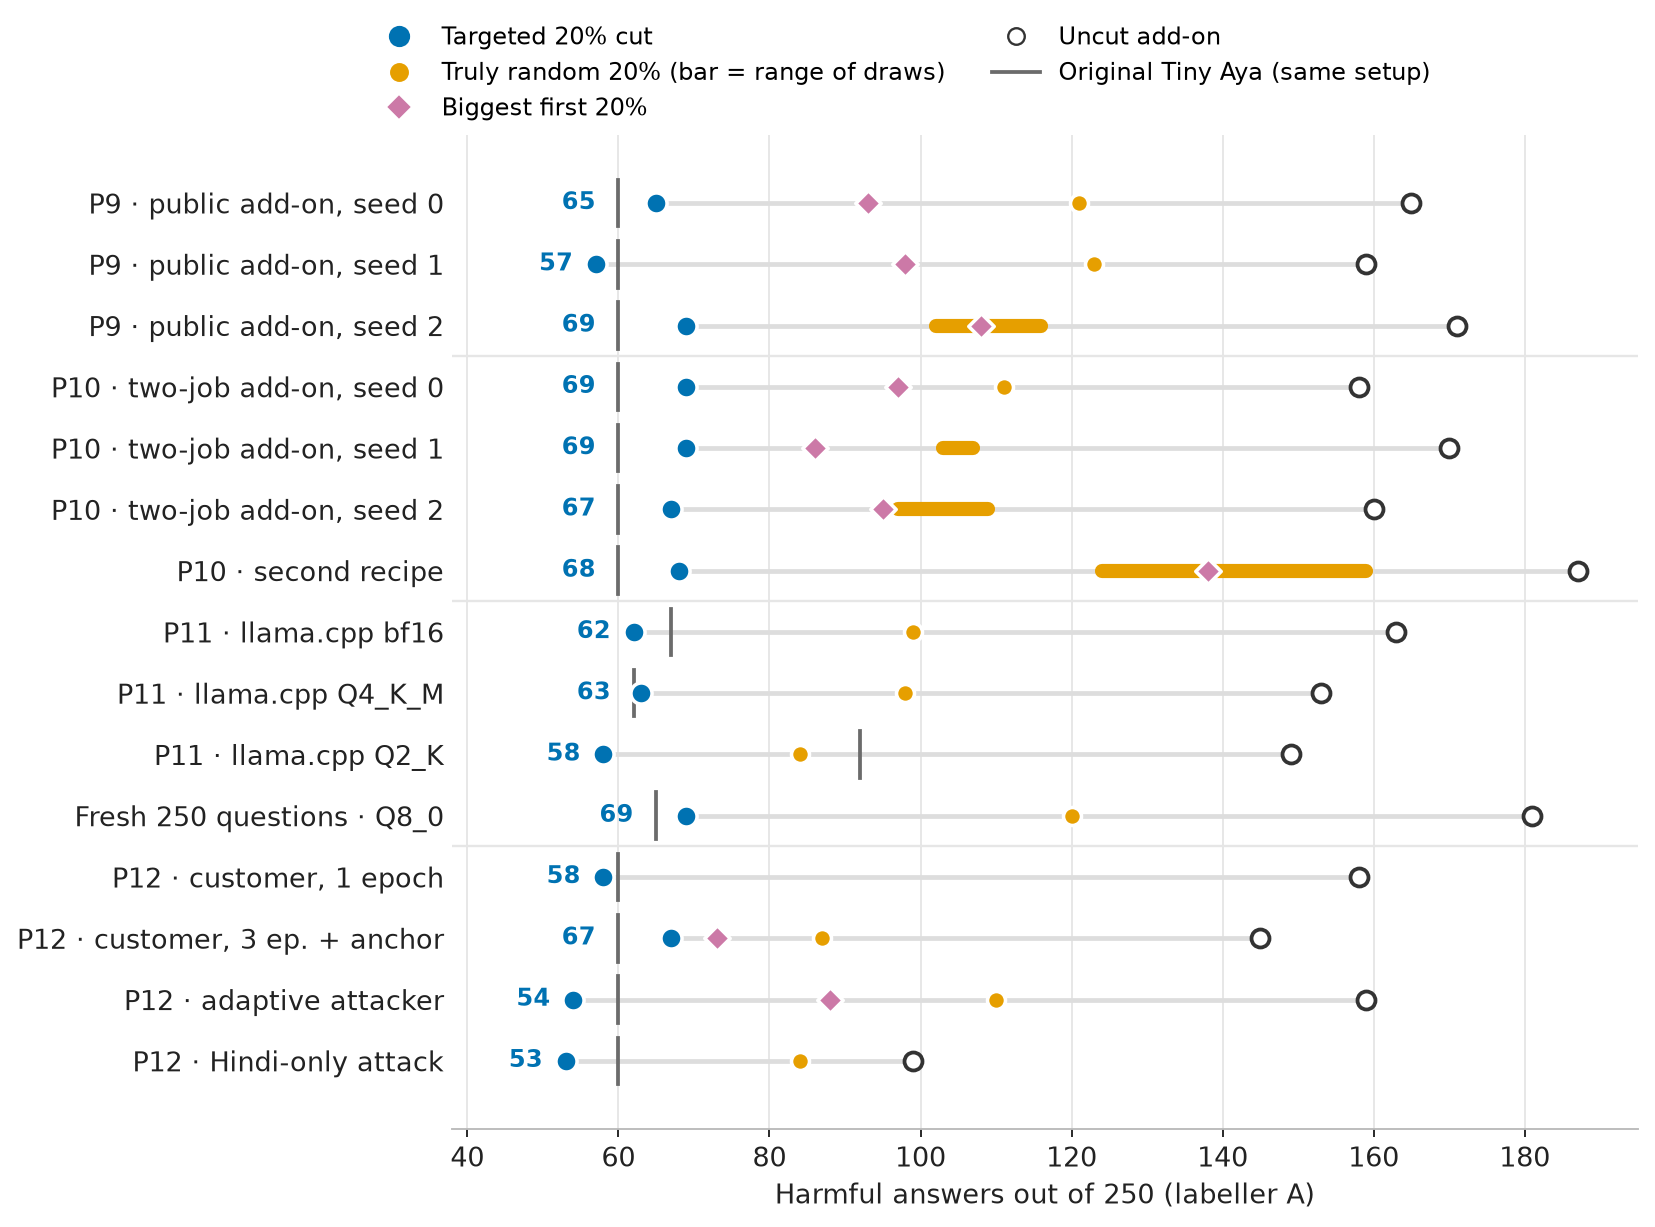
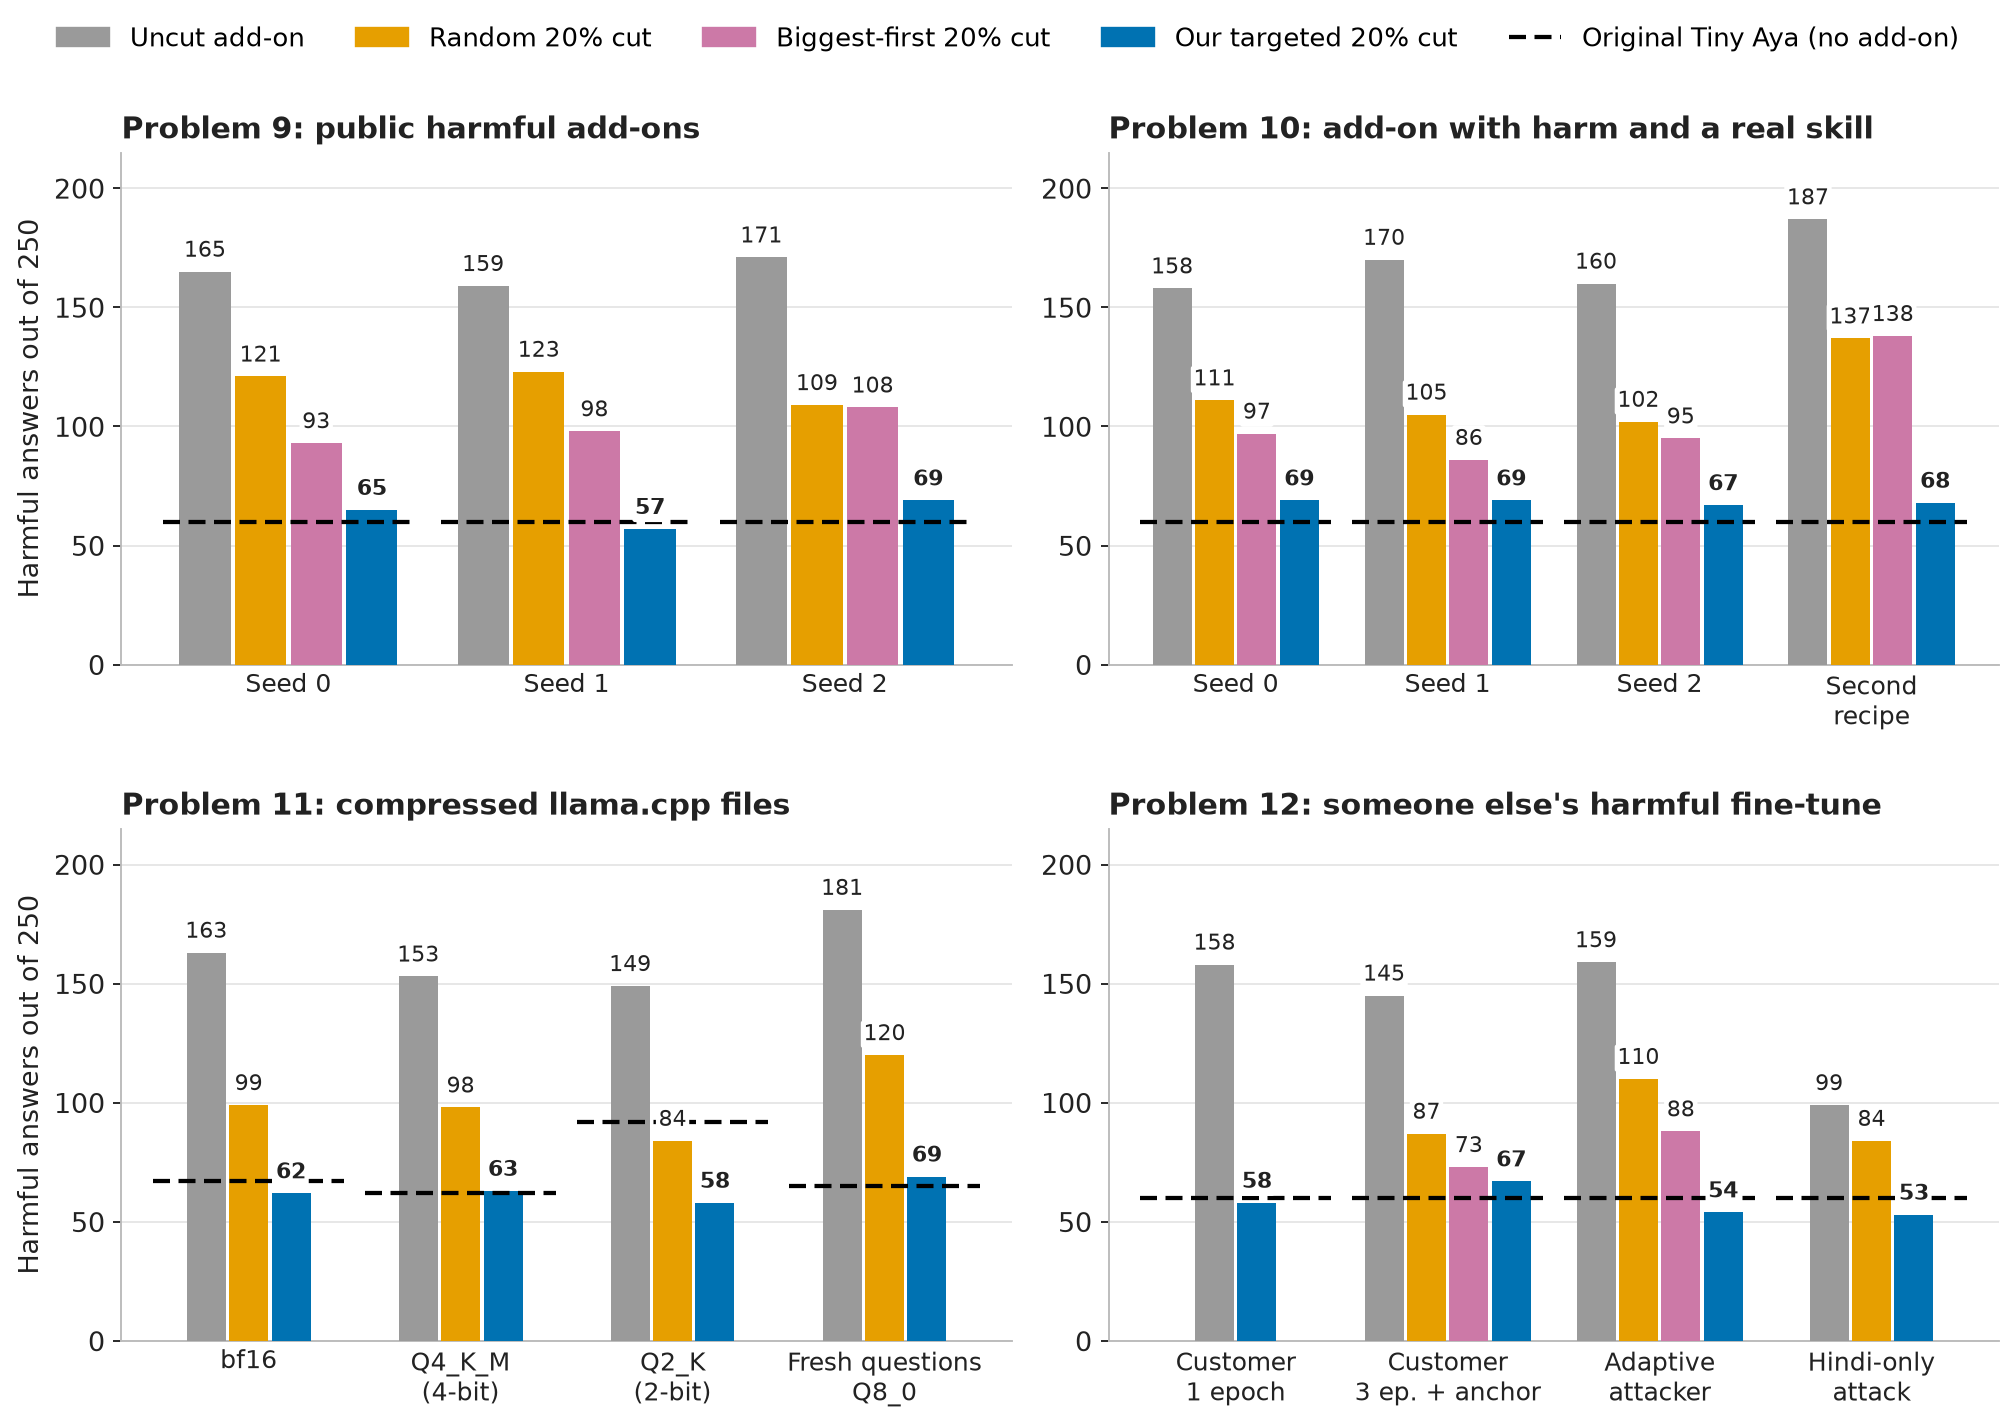
Results figure: four bar-chart panels, one per problem

diff --git a/figures/make_figures.py b/figures/make_figures.py
@@ -53,53 +53,46 @@ ax.text(50, 0.5, "Bar width = strength, bar height = blame per strength. Control
 save(fig, "fig1_the_cut.png")
 
 # ---------- 2. Main results ----------
-rows = [
-    ("P9 · public add-on, seed 0", 165, 65, (121, 121), 93, 60),
-    ("P9 · public add-on, seed 1", 159, 57, (123, 123), 98, 60),
-    ("P9 · public add-on, seed 2", 171, 69, (102, 116), 108, 60),
-    ("P10 · two-job add-on, seed 0", 158, 69, (111, 111), 97, 60),
-    ("P10 · two-job add-on, seed 1", 170, 69, (103, 107), 86, 60),
-    ("P10 · two-job add-on, seed 2", 160, 67, (97, 109), 95, 60),
-    ("P10 · second recipe", 187, 68, (124, 159), 138, 60),
-    ("P11 · llama.cpp bf16", 163, 62, (99, 99), None, 67),
-    ("P11 · llama.cpp Q4_K_M", 153, 63, (98, 98), None, 62),
-    ("P11 · llama.cpp Q2_K", 149, 58, (84, 84), None, 92),
-    ("Fresh 250 questions · Q8_0", 181, 69, (120, 120), None, 65),
-    ("P12 · customer, 1 epoch", 158, 58, None, None, 60),
-    ("P12 · customer, 3 ep. + anchor", 145, 67, (87, 87), 73, 60),
-    ("P12 · adaptive attacker", 159, 54, (110, 110), 88, 60),
-    ("P12 · Hindi-only attack", 99, 53, (84, 84), None, 60),
+# (label, uncut, random (mean of draws), biggest first, targeted, original in the same setup)
+panels = [
+    ("Problem 9: public harmful add-ons", [
+        ("Seed 0", 165, 121, 93, 65, 60), ("Seed 1", 159, 123, 98, 57, 60), ("Seed 2", 171, 109, 108, 69, 60)]),
+    ("Problem 10: add-on with harm and a real skill", [
+        ("Seed 0", 158, 111, 97, 69, 60), ("Seed 1", 170, 105, 86, 69, 60), ("Seed 2", 160, 102, 95, 67, 60),
+        ("Second\nrecipe", 187, 137, 138, 68, 60)]),
+    ("Problem 11: compressed llama.cpp files", [
+        ("bf16", 163, 99, None, 62, 67), ("Q4_K_M\n(4-bit)", 153, 98, None, 63, 62), ("Q2_K\n(2-bit)", 149, 84, None, 58, 92),
+        ("Fresh questions\nQ8_0", 181, 120, None, 69, 65)]),
+    ("Problem 12: someone else's harmful fine-tune", [
+        ("Customer\n1 epoch", 158, None, None, 58, 60), ("Customer\n3 ep. + anchor", 145, 87, 73, 67, 60),
+        ("Adaptive\nattacker", 159, 110, 88, 54, 60), ("Hindi-only\nattack", 99, 84, None, 53, 60)]),
 ]
-fig, ax = plt.subplots(figsize=(9, 7.6))
-n = len(rows)
-for i, (lab, u, t, r, b, o) in enumerate(rows):
-    y = n - 1 - i
-    lo = min(v for v in [u, t, b] + list(r or []) if v is not None)
-    ax.plot([t, u], [y, y], color="#dddddd", lw=2, zorder=1)
-    ax.plot([o, o], [y - 0.38, y + 0.38], color=C["o"], lw=1.6, zorder=2)
-    if r:
-        if r[0] == r[1]:
-            ax.scatter(r[0], y, s=58, color=C["r"], zorder=3, edgecolor="white", linewidth=1.5)
-        else:
-            ax.plot([r[0], r[1]], [y, y], color=C["r"], lw=6, solid_capstyle="round", zorder=3)
-    if b:
-        ax.scatter(b, y, s=58, marker="D", color=C["b"], zorder=3, edgecolor="white", linewidth=1.5)
-    ax.scatter(u, y, s=58, facecolor="white", edgecolor="#333333", zorder=3, linewidth=1.6)
-    ax.scatter(t, y, s=80, color=C["t"], zorder=4, edgecolor="white", linewidth=1.5)
-    ax.text(min(t, o) - 3, y, str(t), ha="right", va="center", fontsize=10, color=C["t"], fontweight="bold")
-for yy in (n - 3.5, n - 7.5, n - 11.5):
-    ax.axhline(yy, color=C["grid"], lw=1)
-ax.set_yticks(range(n)); ax.set_yticklabels([r[0] for r in rows][::-1])
-ax.set_xlim(38, 195); ax.set_xlabel("Harmful answers out of 250 (labeller A)")
-ax.tick_params(axis="y", length=0); ax.spines["left"].set_visible(False)
-ax.grid(axis="x", color=C["grid"], lw=0.8); ax.set_axisbelow(True)
+series = [("Uncut add-on", "#9a9a9a"), ("Random 20% cut", C["r"]), ("Biggest-first 20% cut", C["b"]), ("Our targeted 20% cut", C["t"])]
+fig, axes = plt.subplots(2, 2, figsize=(12, 8.2))
+for ax, (title, groups) in zip(axes.ravel(), panels):
+    w = 0.2
+    for g, (lab, u, r, b, t, o) in enumerate(groups):
+        vals = [u, r, b, t]
+        present = [(k, v) for k, v in enumerate(vals) if v is not None]
+        start = g - w * (len(present) - 1) / 2
+        for n, (k, v) in enumerate(present):
+            x = start + n * w
+            ax.bar(x, v, w * 0.92, color=series[k][1], zorder=3)
+            ax.text(x, v + 4, str(v), ha="center", va="bottom", fontsize=9.5, zorder=6,
+                    fontweight="bold" if k == 3 else "normal", color=C["ink"],
+                    bbox=dict(boxstyle="round,pad=0.12", fc="white", ec="none"))
+        ax.plot([g - 0.45, g + 0.45], [o, o], color="black", lw=1.8, ls=(0, (4, 2)), zorder=4)
+    ax.set_xticks(range(len(groups))); ax.set_xticklabels([g[0] for g in groups], fontsize=10.5)
+    ax.set_ylim(0, 215); ax.set_yticks([0, 50, 100, 150, 200])
+    ax.set_title(title, fontsize=12.5, loc="left", fontweight="bold", color=C["ink"])
+    ax.grid(axis="y", color=C["grid"], lw=0.8); ax.set_axisbelow(True); ax.tick_params(axis="x", length=0)
+    ax.set_xlim(-0.6, len(groups) - 0.4)
+axes[0, 0].set_ylabel("Harmful answers out of 250"); axes[1, 0].set_ylabel("Harmful answers out of 250")
 from matplotlib.lines import Line2D
-h = [Line2D([], [], marker="o", ls="", color=C["t"], ms=8, label="Targeted 20% cut"),
-     Line2D([], [], marker="o", ls="", color=C["r"], ms=7, label="Truly random 20% (bar = range of draws)"),
-     Line2D([], [], marker="D", ls="", color=C["b"], ms=6, label="Biggest first 20%"),
-     Line2D([], [], marker="o", ls="", mfc="white", mec="#333333", ms=7, label="Uncut add-on"),
-     Line2D([], [], color=C["o"], lw=1.6, label="Original Tiny Aya (same setup)")]
-ax.legend(handles=h, loc="upper center", bbox_to_anchor=(0.38, 1.13), ncol=2, frameon=False, fontsize=10)
+from matplotlib.patches import Patch
+h = [Patch(color=c, label=l) for l, c in series] + [Line2D([], [], color="black", lw=1.8, ls=(0, (4, 2)), label="Original Tiny Aya (no add-on)")]
+fig.legend(handles=h, loc="upper center", ncol=5, frameon=False, fontsize=11, bbox_to_anchor=(0.5, 1.03))
+fig.tight_layout(rect=(0, 0, 1, 0.97), h_pad=2.2)
 save(fig, "fig2_main_results.png")
 
 # ---------- 3. Pre-registered rules ----------

diff --git a/WRITEUP.md b/WRITEUP.md
@@ -440,8 +440,9 @@ Labeller A unless marked; under labeller A the original Tiny Aya gives 60.
 
 ![Harmful answers for every test: targeted cut, truly random and biggest-first cuts, uncut add-on and original model](figures/fig2_main_results.png)
 
-*In every row the targeted cut (blue) lands next to the original model (grey line), while same-size random cuts (yellow) and
-biggest-first cuts (pink) leave much more of the harm.*
+*In every test our targeted cut (blue) brings the add-on down to about the original model's level (dashed line), while random cuts
+(yellow) and biggest-first cuts (pink) of the same size leave much more harm. Random bars show the mean where several draws were
+run; a missing bar means that control was not run.*
 
 ### Problem 9: locating the harm
 
